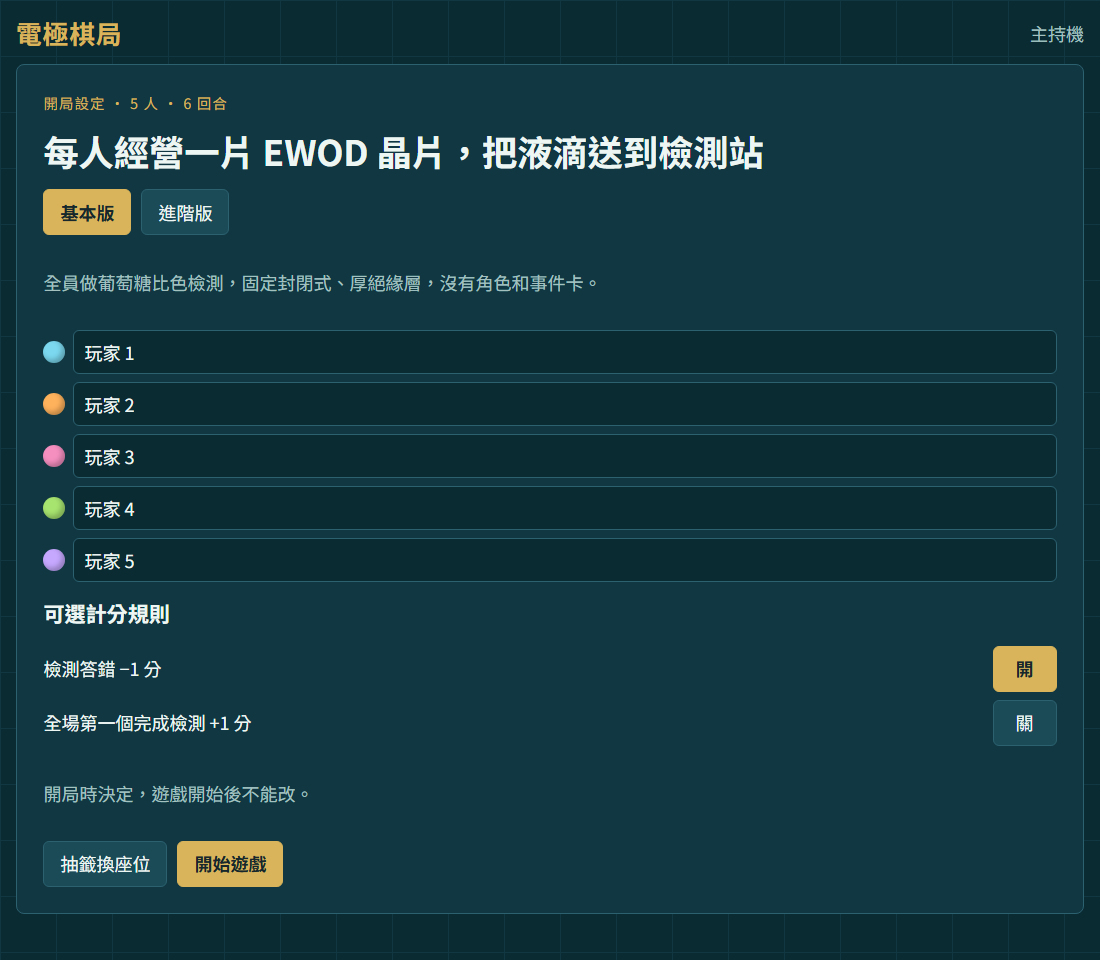
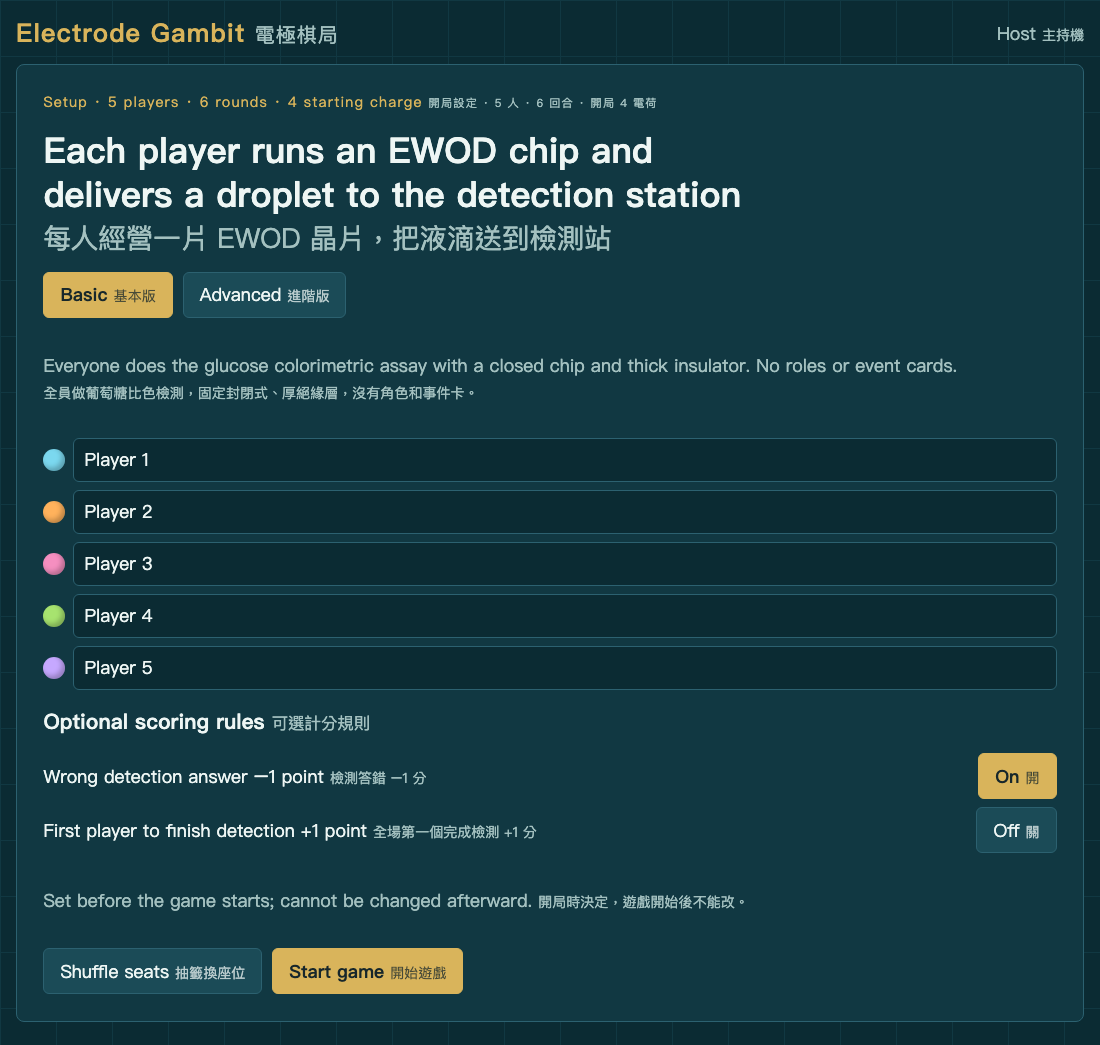
Retake README screenshots with the bilingual interface
- English README now has the same screenshots as the Chinese one
- End screen top bar says Game over instead of the last phase
- smoke.html uses a base href so question images load
- sw.js cache bumped to v14

diff --git a/tools/smoke.html b/tools/smoke.html
@@ -2,15 +2,17 @@
 <!-- 畫面流程冒煙測試：自動按完一整局，結果寫進 #result。#stop=階段 可停在某畫面截圖 -->
 <html lang="zh-Hant">
 <head><meta charset="utf-8"><meta name="viewport" content="width=device-width, initial-scale=1"><title>smoke</title>
-<link rel="stylesheet" href="../css/style.css"></head>
+<!-- base 指到上一層，題目圖片的相對路徑才會對 -->
+<base href="../">
+<link rel="stylesheet" href="css/style.css"></head>
 <body>
 <div id="app"></div>
 <pre id="result" hidden></pre>
 <script>try { localStorage.clear(); } catch (e) {}</script>
-<script src="../js/game-data.js"></script>
-<script src="../js/questions.js"></script>
-<script src="../js/engine.js"></script>
-<script src="../js/app.js"></script>
+<script src="js/game-data.js"></script>
+<script src="js/questions.js"></script>
+<script src="js/engine.js"></script>
+<script src="js/app.js"></script>
 <script>
 (function () {
   const stop = location.hash.slice(1);

diff --git a/js/app.js b/js/app.js
@@ -249,7 +249,8 @@
       reveal: ['Answer', '對答案'],
       action: ['Action', '行動'],
     };
-    const phase = game && names[game.phase];
+    // 結算畫面不再顯示行動階段
+    const phase = state.screen === 'end' ? ['Game over', '遊戲結束'] : game && names[game.phase];
     return `<header class="topbar">
       <h1>Electrode Gambit <span class="zh">電極棋局</span></h1>
       ${game ? `<div class="rounds" aria-label="Round ${game.round} of ${RULES.rounds}">${pads(game)}</div>

diff --git a/sw.js b/sw.js
@@ -1,5 +1,5 @@
 // 離線快取：第一次連上網路後，教室斷網也能開
-const CACHE = 'electrode-gambit-v13';
+const CACHE = 'electrode-gambit-v14';
 const FILES = [
   './', 'index.html', 'css/style.css', 'js/game-data.js', 'js/questions.js', 'js/engine.js', 'js/app.js',
   'manifest.webmanifest', 'icons/icon-192.png', 'icons/icon-512.png',

diff --git a/README.md b/README.md
@@ -15,8 +15,6 @@ Players use a physical board, tokens, an answer board and answer flags on the ta
 
 The host app is **English-first with Chinese translations**. Buttons read “English 中文” (for example “Show question 出題”). Questions, options, explanations and event cards show English with smaller Chinese text below. Both shared questions and detection (individual) questions are bilingual.
 
-> The screenshots below still show the older Chinese-only interface. The buttons are in the same places; only the text is now bilingual.
-
 ## Quick start
 
 1. Print [`print/electrode-gambit-prototype.pdf`](print/electrode-gambit-prototype.pdf) and cut out the tokens and answer flags.
@@ -42,6 +40,10 @@ The host app is **English-first with Chinese translations**. Buttons read “Eng
 | Host device | 1 | Phone, tablet or computer | Yes | Yes |
 
 The printed cards and rule pages are in Chinese; the backup question sheet is bilingual. Rule summaries are on PDF page 2 (Basic) and page 6 (Advanced).
+
+![Host card](docs/images/host-card.png)
+
+![Board](docs/images/board.png)
 
 ## How the pieces work
 
@@ -100,6 +102,8 @@ The first player moves back one seat each round; the app handles it. Rounds 1–
 
 ## Setup
 
+![Setup screen](docs/images/01-setup.png)
+
 1. Choose **Basic** or **Advanced**.
 2. Enter the 5 player names. The dot color on the left is the start color, top to bottom = start 1 to 5.
 3. Press **Shuffle seats** to assign starts at random.
@@ -112,15 +116,21 @@ Each player puts their token on their start cell and takes the matching answer f
 
 ### 1. Round start
 
+![Round start](docs/images/02-event.png)
+
 Base income is added automatically. The scoreboard on the right shows each player’s score (top right), charge (⚡), insulator (●) and next station.
 
 On this screen, **−1 ⚡** / **+1 ⚡** fix charge, for example after a mis-tap or a dice event. Press **Show question** to continue.
 
 ### 2. Shared question
 
+![Shared question](docs/images/03-question.png)
+
 The host reads the question and players think during the countdown. When time is up, everyone places their flag, and the host presses **Reveal answer**. The timer is only a reminder; it does not advance automatically.
 
 ### 3. Answer
+
+![Answer](docs/images/04-reveal.png)
 
 The correct option lights up with an explanation and the lecture page. Tap the players who were correct, then press **Settle and go to actions**.
 
@@ -135,6 +145,8 @@ Tap a wrong option to see why it is wrong. Questions with a video show a **Watch
 All videos are also on the [videos page](https://weipingwang1995.github.io/biomicrofluidic-board-game/videos.html) for players to watch on their phones.
 
 ### 4. Action
+
+![Action](docs/images/05-action.png)
 
 The screen shows whose turn it is, mission progress and remaining steps. The player says what they want to do and the host presses:
 
@@ -153,12 +165,16 @@ The screen shows whose turn it is, mission progress and remaining steps. The pla
 
 ### 5. Detection question
 
+![Detection question](docs/images/06-detect.png)
+
 Only the current player answers, with a 25-second timer. The host presses **Reveal answer**, then **Correct** or **Wrong**.
 
 - **Correct**: +4 points and the mission is complete. In Basic, repeat the same mission from the current cell; in Advanced, draw the next one.
 - **Wrong**: no refund; pay 1 charge next turn to retry. Basic also takes away 1 point by default.
 
 ## Game end
+
+![Game end](docs/images/07-end.png)
 
 After round 6 the app shows the ranking plus every question’s answer, how many got it right and the lecture page, ready for review. Press **New game** to return to setup. To stop early, press **End game** on the right.
 
@@ -229,8 +245,6 @@ In Basic, ties share first place; the host can ask one buzzer question to break 
 玩家在桌上用實體棋盤、棋子、答題板和答題旗，主持人用一台手機或電腦操作主持機。主持機負責出題、倒數和記錄電荷、分數，**但不知道棋子在哪一格**，走到哪裡要看桌上的棋盤。
 
 主持機介面**以英文為主、附中文翻譯**：按鈕寫成「英文 中文」（例如「Show question 出題」），題目、選項、解說和事件卡都是英文在上、中文小字在下。共同題和檢測題（個人題）都已經是英中對照。下面說明裡提到的按鈕名稱是中文那一半。
-
-> 說明裡的截圖還是舊的中文介面，按鈕位置相同，只是文字改成英中對照。
 
 ## 快速開始
 

diff --git a/TODO.md b/TODO.md
@@ -10,7 +10,7 @@
 - [x] 全部 86 題改成英文為主、附中文翻譯（`zh` 欄位），檢測題（個人題）也是英文（2026-11-10）
 - [x] 主持機介面英文為主、中文小字翻譯；`sw.js` 升到 v13（2026-11-10）
 - [ ] 第 6 回合和檢測題沒有圖片和影片
-- [ ] README 的截圖（`docs/images/`）還是舊的中文介面，要重拍
+- [x] README 截圖重拍成英中對照介面，README 加上英文版（2026-11-10）
 - [ ] 開局電荷改成 4（2026-11-10，使用者指定）；還沒重跑 `tools/simulate.js`／`seat-analysis.js` 的平衡模擬
 - [ ] 題庫縮減（討論中的方案：共同 6＋最終 5＋備選 5，共 16 題）；題目用完時免答題完成檢測
 - [ ] 印刷備援題本、README、Notion 規則頁同步
